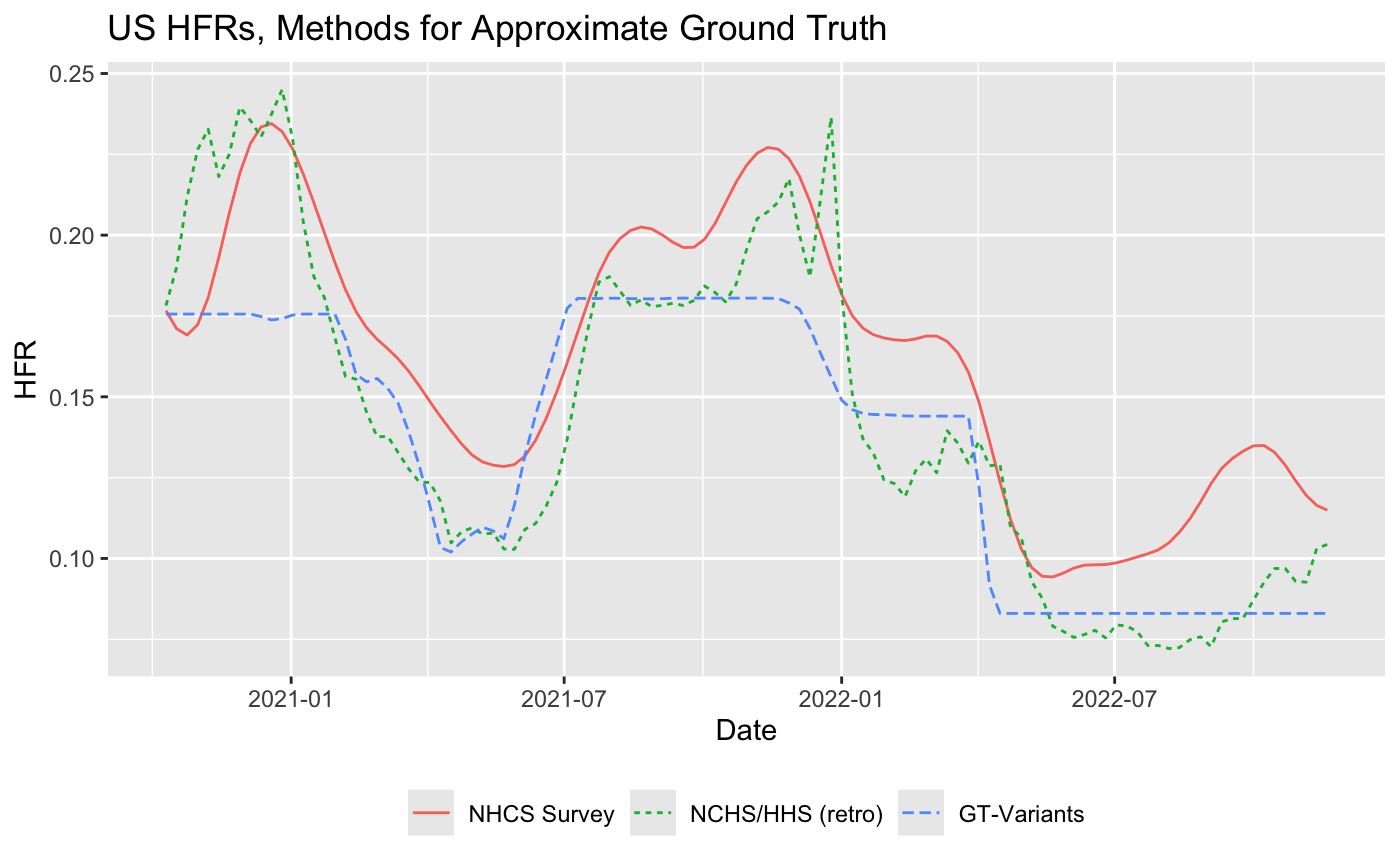
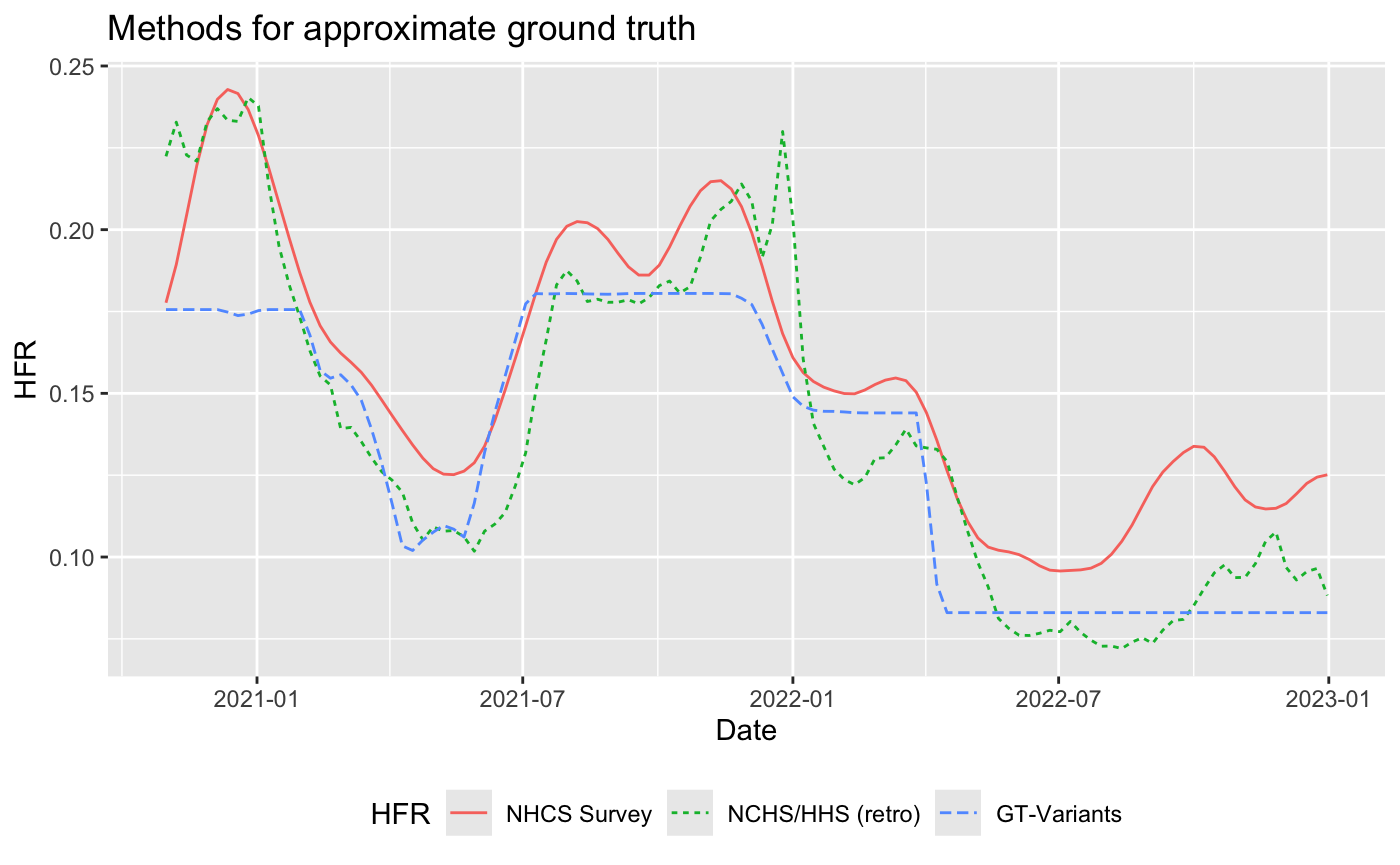
Updates from Overleaf

diff --git a/main.tex b/main.tex
@@ -207,13 +207,13 @@ Our experiments focus on the Hospitalization-Fatality Rate (HFR) during COVID-19
 
 % During the pandemic, data sources counted deaths in different ways. John Hopkins University (JHU) provided the definitive resource for real-time death counts, releasing figures daily. However, these counts reflected the times at which deaths were reported to health authorities, not necessarily when they actually happened. In contrast, the National Center for Health Statistics (NCHS) provide weekly totals for deaths aligned by occurrence. Unlike JHU, the NCHS deaths were not available in real time.
 
-To estimate real-time HFRs, we pulled daily hospitalizations and deaths from the \texttt{epidatr} API, developed by the Delphi Group. Like HHS for hospitalizations \cite{HHS2023}, John Hopkins University (JHU) provided the definitive resource for real-time death counts \cite{JHUepidatr}. These counts reflect the times at which deaths were reported to health authorities, not necessarily when they actually happened. Therefore raw JHU death counts exhibit high volatility due to reporting idiosyncrasies like day-of-week effects and data dumps. As a result, we used a 7-day trailing average of counts. 
+To estimate real-time HFRs, we pulled daily hospitalizations and deaths from the \texttt{epidatr} API, developed by the Delphi Group. Like HHS for hospitalizations \cite{HHS2023}, John Hopkins University (JHU) provided the definitive resource for real-time death counts \cite{JHUepidatr}. These counts reflect the times at which deaths were reported to health authorities, not necessarily when they actually happened. Therefore raw JHU death counts are highly volatile due to reporting idiosyncrasies like day-of-week effects and data dumps. As a result, we used a 7-day trailing average of counts. 
 
 The daily aggregates from each resource were updated over the course of the pandemic. \textbf{TO DO: explain our versioning schema once it's implemented.}
 
 % To estimate real-time HFRs, we use hospitalizations from HHS and deaths from JHU \cite{JHUepidatr}. Data was pulled from the \texttt{epidatr} API, developed by the Delphi Group. Raw JHU death counts exhibit high volatility due to reporting idiosyncrasies like day-of-week effects and data dumps. For that reason, we used a 7-day trailing average of counts. For each dataset, we used the finalized counts, not the versions that would have been available in real time. Doing so would have likely resulted in even more volatile HFR estimates. %We also obtained finalized weekly deaths from NCHS, again smoothing with a spline.
 
-The two ratio estimators (Eq. \ref{eq:lagged} and \ref{eq:conv}) require choices of lag and delay distribution. Appendix \ref{apx:robustness} evaluates the robustness of findings against different hyperparameter values. Nevertheless, the experiments in Section \ref{sec:results_real} a lag of 20 days, which maximizes the cross-correlation between hospitalizations and deaths over all time. We let the delay distribution be a discrete gamma, a common choice. We set its mean to this oracle lag, as lags are often chosen to be the mean of the delay distribution. This mean of 20 matches nicely with a UK study (CITE) that finds a median hospitalization-to-death time of 11 days, and a CDC report that 63\% of COVID deaths are reported within 10 days. We set the standard deviation to 18; the UK study fit gamma delay distributions whose standard deviations were roughly 90\% of their means. 
+The two ratio estimators (Eq. \ref{eq:lagged} and \ref{eq:conv}) require choices of lag and delay distribution. Appendix \ref{apx:robustness} evaluates the robustness of findings against different hyperparameter values. The experiments in Section \ref{sec:results_real} use a lag of 20 days, which maximizes the cross-correlation between hospitalizations and deaths over all time. We let the delay distribution be a discrete gamma, a common choice. We set its mean to this oracle lag, as lags are often chosen to be the mean of the delay distribution. This mean of 20 matches nicely with a UK study (CITE) that finds a median hospitalization-to-death time of 11 days, and a CDC report that 63\% of COVID deaths are reported within 10 days. We set the standard deviation to 18, because the delay distributions fit by the UK study had standard deviations that were roughly 90\% of their means. 
 
 
 % However, we set the default choice of lag as 19 days. This is motivated by a UK study finding a median hospitalization-to-death time of 11 days, and a CDC report that 63\% of deaths are reported within 10 days. The convolutional ratio uses an estimate of the hospitalization-to-death delay distribution. A common choice is a discrete gamma distribution, whose standard deviation is comparable to its mean. Empirically, we found a mean of 28 days and standard deviation of 21 days minimized the bias.
@@ -238,21 +238,40 @@ HFRs from aggregate hospitalization and death counts are significantly higher th
 
 % Assuming the NHCS HFRs are forward-looking and the lagged model is correct (lol), the number of inpatient deaths $Y_{t+L}^{in}\approx X_t \eta_t$. Let $s_t$ be the proportion of deaths that die in-hospital at $t$ (this is reported in a monthly window surrounding $t$). Then $s_t Y_t \approx Y_t^{in}$. So $Y_{t+L} \approx \frac{X_t \eta_t}{s_{t+L}}$. That is, I can use $\eta_t/s_{t+L}$ as the HFRs, and ultimately rescale as before if needed. 
 
-We considered two other sources for ground truth HFRs, discussed in Appendix \ref{apx:alt_gt}. Unlike NHCS, these HFRs are obtained from aggregate counts, not line-list data. Fortunately, they are fairly consistent with the rescaled NHCS data, bolstering our trust in it. 
+We considered two other sources for ground truth HFRs, discussed in Appendix \ref{apx:alt_gt}. Unlike NHCS, these HFRs are obtained from aggregate counts, not line-list data. Fortunately, they are fairly consistent with the rescaled NHCS data, bolstering our trust in it. Of course, the NHCS curve is merely an approximation for the ground truth; its values, especially after mid-2022, may be incorrect. Nevertheless, it is a useful aide with which to judge the fidelity of our HFR estimates.
 % but entail making worse assumptions. 
 
 \section{Results}\label{sec:results}
 
 \subsection{National COVID Data}\label{sec:results_real}
 
+% \begin{figure}
+%     \centering
+%     \includegraphics[width=0.8\linewidth]{Figs/US_ests_vs_GT.png}
+%     \caption{Time-varying HFR estimates are highly biased. Terms in both ratio estimates are smoothed over a 7-day window.}
+%     \label{fig:basic_est_vs_gt}
+% \end{figure}
+
 \begin{figure}
-    \centering
-    \includegraphics[width=0.8\linewidth]{Figs/US_ests_vs_GT.png}
-    \caption{Time-varying HFR estimates are highly biased. Terms in both ratio estimates are smoothed over a 7-day window.}
-    \label{fig:basic_est_vs_gt}
+     \centering
+     \begin{subfigure}[b]{0.55\linewidth}
+         \centering
+         \includegraphics[width=\linewidth]{Figs/US_ests_vs_GT.png}
+         \caption{Comparing convolutional and lagged ratios against approximate ground truth, Oct. 2020 - Dec 2022.}
+         \label{fig:basic_est_vs_gt}
+     \end{subfigure}
+     \hfill
+     \begin{subfigure}[b]{0.4\linewidth}
+         \centering
+         \includegraphics[width=\linewidth]{Figs/hfrs_by_wave.png}
+         \caption{HFRs and hospitalizations in three periods with major bias.}
+         \label{fig:wave}
+     \end{subfigure}
+        \caption{Convolutional ratio estimates are biased regardless of which delay distribution is selected.}
+        \label{fig:basic_est_vs_gt_figs}
 \end{figure}
 
-Figure \ref{fig:basic_est_vs_gt} highlights the bias of these ratio estimators. Both the lagged and convolutional ratios respond very slowly to changes in the HFR. As the HFR declines throughout the Alpha wave in early 2021, both ratios stay around 0.2 for several months. More troublingly, they are very slow to detect the rising HFR in the early Delta period (summer 2021). %A central purpose of these estimators is to inform stakeholders of increased risks in real time; this indicates a failure to do so during the Delta surge.
+Figure \ref{fig:basic_est_vs_gt_figs} highlights the bias of these ratio estimators. Both the lagged and convolutional ratios respond very slowly to changes in the HFR. As the HFR declines throughout the Alpha wave in early 2021, both ratios stay around 0.2 for several months. More troublingly, they are very slow to detect the rising HFR in the early Delta period (summer 2021). %A central purpose of these estimators is to inform stakeholders of increased risks in real time; this indicates a failure to do so during the Delta surge.
 
 The most significant bias comes in the middle of the Omicron wave in spring 2022. The true HFRs sharply decline in this period, from a high of roughly 17\% in March to a low of 9\% only two months later. At the same time, the HFR estimates \textit{rise}, peaking over 20\% as the true HFR reaches its nadir. This dramatic surge signals a serious false alarm. 
 
@@ -263,13 +282,10 @@ if in addition to Figure 1, we had a three-panel figure that
 ``zooms in'' on each of these cases, and specifically labels them
 with each of the three failure modalities, so that the reader
 can see exactly how they correspond to the conditions under
-which bias occurs outlined in Section 2.  (Even better if
-there are toy examples in Section 2, so the reader can see
-the ``idealized version'' of the failure, and a ``real world''
-manifestation of that failure mode.
+which bias occurs outlined in Section 2. \textcolor{blue}{How's this look?}%  (Even better if there are toy examples in Section 2, so the reader can see the ``idealized version'' of the failure, and a ``real world'' manifestation of that failure mode.
 }
 
-We performed several robustness checks to assess the stability of these findings. Figure \ref{fig:basic_est_vs_gt} compares the convolutional and lagged ratio estimators, finding both exhibit bias. The convolutional estimator is slightly better, but still very problematic. Appendix \ref{apx:robustness} explores the effect of different hyperparameters and locations. By and large, the ratio estimators are biased regardless of these considerations. 
+We performed several robustness checks to assess the stability of these findings. Figure \ref{fig:basic_est_vs_gt} compares the convolutional and lagged ratio estimators, finding bias in both. The convolutional estimator is slightly better, but still very problematic. Appendix \ref{apx:robustness} explores the effect of different hyperparameters and locations. By and large, the ratio estimators are biased regardless of these considerations. 
 
 \subsection{Simulated Data}
 
@@ -278,9 +294,8 @@ We further evaluated these methods on simulated deaths whose true HFRs is known.
 
 $$Y_t := \sum_{k=0}^d X_{t-k} \mathbb{P}(\text{die at $t$ }\vert\text{ hosp at }t-k) = \sum_{k=0}^d X_{t-k} \pi_k p_{t-k}.$$
 
-To mimic the real data, we first used the same HFRs from NHCS used for validation in \ref{sec:results_real}. We also inverted them and rescaled in order to simulate the opposite trend. Lastly, we explored a stationary HFR of 10\% over all time. In addition, we used the delay distributions that produced the most reasonable convolutional HFRs on the observed death counts. For NCHS, this was a gamma distribution with mean 11 and standard deviation 10; for JHU, these quantities were 28 and 21, respectively.  (TO DO: replace all this.)
-
-The ratio estimators used the oracle hyparameters: The true delay distribution for the convolutional ratio, and its mean for the lagged method. Estimates were not smoothed over a trailing window.
+To mimic the real data, we first used the same HFRs from NHCS used for validation in \ref{sec:results_real}. We also inverted them and rescaled in order to simulate the opposite trend. Lastly, we explored a stationary HFR of 10\% over all time. The delay distributions were again gamma with standard devation 0.9 of their mean. We experimented with means of 12 and 24 to illustrate a short and long delay distribution. The ratio estimators used the oracle hyparameters: The true delay distribution for the convolutional ratio, and its mean for the lagged method. Estimates were not smoothed over a trailing window.
+% In addition, we used the delay distributions that produced the most reasonable convolutional HFRs on the observed death counts. For NCHS, this was a gamma distribution with mean 11 and standard deviation 10; for JHU, these quantities were 28 and 21, respectively.  (TO DO: replace all this.)
 
 \begin{figure}
     \centering
@@ -291,7 +306,7 @@ The ratio estimators used the oracle hyparameters: The true delay distribution f
 
 Figure \ref{fig:sims} displays the results on the 2 delay distributions and 3 HFR settings. The bias was significantly more pronounced with the longer delay distribution. To assess the relationship between the estimated and true HFRs, we identified the offset that maximized the cross-correlation between the two series. On both the true and inverted NHCS HFRs, this was 7 days for the short distribution, a relatively innocuous gap. However, the offset is 21 days with the longer distribution - concerningly slow during a rapidly changing severity rate like the Delta surge.
 
-Interestingly, the lagged estimator performed considerably worse than the convolutional ratio. When the true HFR changed, the lagged estimates oscillated while the convolutional ratio followed the general trend. In the stationary HFR case, its bias reached as high as 50\%; in contrast, the convolutional estimator was unbiased as anticipated (Eq. \ref{eq:ConvBias}). Nevertheless, the lagged ratio is the standard time-varying estimator in practice. 
+Interestingly, the lagged estimator performed considerably worse than the convolutional ratio. When the true HFR changed, the lagged estimates oscillated while the convolutional ratio followed the general trend. In the stationary HFR case, its bias reached as high as 50\%; in contrast, the convolutional estimator was unbiased as anticipated (Eq. \ref{eq:ConvBias}). This discrepancy is striking, as the lagged ratio is the most commonly-used time-varying estimator. 
 
 \section{Discussion}
 
@@ -300,11 +315,15 @@ Our analyses illustrate that practitioners should take caution when using these 
 Given the drawbacks of these methods, alternative approaches may be preferable when there is reason to believe the true rate is changing. If possible, severity rates can be obtained from line-list data after accounting for right censoring. These rates can then be scaled to a broader population with careful demographic adjustment \cite{verity2020estimates}. 
 
 % Other methods exist to estimate severity rates from aggregate data. 
-When only aggregate data is available, other methods may outperform these ratios. \citeauthor{fusedlasso} propose estimating all severity rates at once with a Fused Lasso model, using the relation in Eq. \ref{eq:model}. Unlike the other approaches, this method is inherently forward-looking, where rates at $t$ are exclusively used to produce secondary events after $t$. However, it may suffer from other sources of bias. It is inclined to estimate smoothly-changing severity rates as piecewise constant, and may yield unstable real-time estimates due to scarce data at the tail.
+% When only aggregate data is available, 
+More commonly, only aggregate data is available, especially in real time. In that case, other methods may outperform these ratios. \citeauthor{fusedlasso} propose estimating all severity rates at once with a Fused Lasso model, using the relation in Eq. \ref{eq:model}. Unlike the other approaches, this method is inherently forward-looking, where rates at $t$ are exclusively used to produce secondary events after $t$. However, it may suffer from other sources of bias. It is inclined to estimate smoothly-changing severity rates as piecewise constant, and may yield unstable real-time estimates due to scarce data at the tail.
 
 \citeauthor{UKpaper} also proposed a forward-looking method, this one a ratio between relevant primary and secondary events. However, this method is not applicable in real time, as it uses secondary events after $t$ to compute the severity rate. Nevertheless, it is a useful tool for retrospective estimation. 
 
-In a similar vein, deaths from NCHS should be used for retrospective analysis, not JHU. Longer delay distributions have been shown to produce significantly more bias (Fig. \ref{fig:jhu_vs_nchs}, \ref{fig:sims}). Therefore estimates with data that counts secondary events by report date will always be worse. Analogously, bias is a more serious issue with earlier primary events. For example, case- or infection-fatality ratios may be more biased than hospitalization-fatality ratios. 
+% TO DO: FIX
+Another retrospective tool is aggregate COVID deaths from NCHS, a resource that was not available in real time (Appendix \ref{apx:NCHS_deaths}). Unlike JHU, whose aggregates align deaths by report date, NCHS counts deaths on the day the actually occurred. As a result, the mean of its delay distribution is considerably lower, so it produces more accurate ratio estimates (Fig. \ref{fig:jhu_vs_nchs}, \ref{fig:sims}). Analogously, bias is a more serious issue with earlier primary events. For example, case- or infection-fatality ratios may be more biased than hospitalization-fatality ratios. 
+
+% In a similar vein, deaths from NCHS should be used for retrospective analysis, not JHU. Longer delay distributions have been shown to produce significantly more bias (Fig. \ref{fig:jhu_vs_nchs}, \ref{fig:sims}). Therefore estimates with data that counts secondary events by report date will always be worse. Analogously, bias is a more serious issue with earlier primary events. For example, case- or infection-fatality ratios may be more biased than hospitalization-fatality ratios. 
 
 While still biased, the convolutional ratio generally outperformed the lagged method (Fig. \ref{fig:basic_est_vs_gt}, \ref{fig:sims}). While this estimator is widely used for overall HFRs with cumulative counts, we have not come across any applications for the time-varying case. This further suggests the lagged ratio is overused in practice, though the convolutional ratio may not be the best existing alternative \cite{fusedlasso, UKpaper}.
 
@@ -345,7 +364,7 @@ When daily hospitalizations approach a constant level, the two estimators become
 
 TO DO: ANALYZE WHY THIS HAPPENS.
 
-\section{Retrospective Deaths}
+\section{Retrospective Deaths}\label{apx:NCHS_deaths}
 
 JHU presented daily deaths in real time, aligned by the date they were reported. In contrast, the National Center for Health Statistics (NCHS) provided weekly totals for deaths aligned by occurrence, and were not available in real time. Thus, delay distributions with NCHS deaths have a lighter tail. 
 
@@ -372,10 +391,10 @@ Figure \ref{fig:jhu_vs_nchs} shows this minor change has a significant effect on
 
 We considered two retrospective approaches to approximate the ground truth national HFRs over time. The first approach took lagged ratios with aggregate deaths from NCHS. NCHS is a better resource than JHU because it uses death counts from the date they actually occurred, not merely reported. In addition, we take a forward-looking ratio, which is retrospective insofar as it uses data after time $t$ to estimate the HFR.
 % Unlike the real-time estimates, we  method is forward-looking and . 
-$$\hat{p}_t^{\text{LaggedRetro}} = \frac{Y_{t+L}}{X_t}$$ %= \hat{p}_{t+L}^\text{Lagged}
-% \begin{equation}\label{eq:LaggedRetro}
-    
-% \end{equation}
+
+\begin{equation}\label{eq:LaggedRetro}
+    \hat{p}_t^{\text{LaggedRetro}} = \frac{Y_{t+L}}{X_t}
+\end{equation}
 % \noindent Equation \ref{eq:LaggedRetro} is retrospective because it uses data after time $t$, and therefore is not applicable in real-time. 
 
 The second approach computed a single HFR for each major variant, then mixing by the proportions of variants in circulation. Formally, let $\hat{p}_j$ approximate the HFR of variant $j$; let $v_t^j$ be its proportion of cases at time $t$, where $\sum_j v_t^j = 1 \; \forall t$. The HFR estimate is
@@ -387,8 +406,8 @@ Each variant's HFR $\hat p_j$ was defined as the ratio of total NCHS deaths and 
 Figure \ref{fig:approxGT} displays the three curves approximating the true HFRs. They have nontrivial differences in magnitude, but move more or less in conjunction. To validate our results, we primarily used the rescaled NHCS HFRs as the least problematic of the three. The retrospective NCHS ratios are subject to statistical bias, expressed in \ref{eq:LagBias}. The variant-based HFRs are flatter, as they do not account for other sources of variability. Therefore, they do not explain for the statistical bias within each variant period, which arises due to changes in the underlying severity rate.  %unreasonably flat
 
 \section{Robustness Checks}\label{apx:robustness}
-
-In this section we demonstrate the robustness of our findings against choices of hyperparameters and geography. First, Figure \ref{fig:window} plots performance over choices of window size parameter. We analyze smoothed versions of the lagged estimator
+\subsection{Hyperparameters}
+In this section we demonstrate the robustness of our findings against choices of hyperparameters. (All results are with the finalized version of JHU deaths.) First, Figure \ref{fig:window} plots performance over choices of window size parameter. We analyze smoothed versions of the lagged estimator
 
 \begin{equation}\label{eq:laggedSmooth}
     \hat{p}_t^\text{Lagged,W} = \frac{\sum_{s=t-w+1}^{t} Y_s}{\sum_{s=t-w+1}^{t} X_{s-\ell}},
@@ -416,9 +435,50 @@ We next examine the time-to-death hyperparameters: The lag $L$ for the lagged ra
     \label{fig:lag}
 \end{figure}
 
-TO DO: Different delay distribution
+% TO DO: Different delay distribution
+Figure \ref{fig:delays} compares the performance of the convolutional ratio across different choices of delay distribution. We kept the discrete gamma shape for each, but varied the mean and standard deviation. As before, Figure \ref{fig:delay1} kept the standard deviation to 90\% of the mean, per \citeauthor{UKdelay}. We also evaluated with a more compact delay distribution in \ref{fig:delay2}. 
 
-TO DO: Different state
+% \begin{figure}
+%     \centering
+%     \includegraphics[width=0.7\linewidth]{Figs/hfrs_by_delay.png}
+%     \caption{HFRs are biased regardless of what delay distribution is selected.}
+%     \label{fig:delay}
+% \end{figure}
+
+\begin{figure}
+     \centering
+     \begin{subfigure}[b]{0.45\linewidth}
+         \centering
+         \includegraphics[width=\linewidth]{Figs/hfrs_by_delay1.png}
+         \caption{SD is $0.9\times$mean.}
+         \label{fig:delay1}
+     \end{subfigure}
+     \hfill
+     \begin{subfigure}[b]{0.45\linewidth}
+         \centering
+         \includegraphics[width=\linewidth]{Figs/hfrs_by_delay2.png}
+         \caption{SD is $0.7\times$mean.}
+         \label{fig:delay2}
+     \end{subfigure}
+        \caption{Convolutional ratio estimates are biased regardless of which delay distribution is selected.}
+        \label{fig:delays}
+\end{figure}
+All HFR estimates in the figures are significantly biased. Regardless of delay distribution, the ratios are negatively biased during the onset of Delta, and surge after the peak of Omicron. This indicates the bulk of the error is fundamental to the estimator, and cannot be attributed to model misspecification. 
+
+Comparing to the approximate ground truth HFRs from NHCS, performance improved slightly with a longer delay distribution than the purported mean of 20 days. Its mean absolute error was 0.031, whereas the delay distribution with mean 28 and standard deviation 25 had a MAE of 0.27. Nevertheless, this difference is relatively small, with the alternative delay distribution still showing similar bias.
+
+\subsection{Geography}
+
+Next, we repeat our analysis on different geographies, finding similar trends. We repeated our computations on the 6 largest US states with the same lag and delay distribution, with finalized death counts from JHU. Because the NHCS survey was conducted on a subset of hospitals meant to represent the US at large, it may poorly approximate the HFRs for individual states. A better state-level source is the retrospective lagged estimate (\ref{eq:LaggedRetro}) using NCHS deaths. Figure \ref{fig:state-level} compares this rough ground truth with the real-time estimates. For both NCHS and JHU deaths, we again take the lag that maximizes cross-correlation with hospitalizations; the standard deviation of the delay distribution is 0.9 times the mean. 
+
+ \begin{figure}
+     \centering
+     \includegraphics[width=0.8\linewidth]{Figs/state_level_hfrs.png}
+     \caption{HFRs by individual states. Comparing retrospective estimates with NCHS against real-time estimates with JHU.}
+     \label{fig:state-level}
+ \end{figure}
+
+Several states have similar biases as the US results (Fig. \ref{fig:basic_est_vs_gt}). Ratios in California, Texas, and Florida all are slow to detect the uptick in HFR during Delta; in California and Florida they also spike during Omicron. Note these states are the ones with the largest optimal lags, an estimate of the average time to death. As our simulated examples have shown, the shape of the delay distribution is a key factor behind the degree of bias. In contrast, New York, Pensylvania, and Illinois have mean delays of at most 20; while their HFRs are still biased, they are relatively close to the NCHS curve. This suggests that fatality ratios are generally less trustworthy in states that take longer to report deaths.
 
 
 \end{document}
